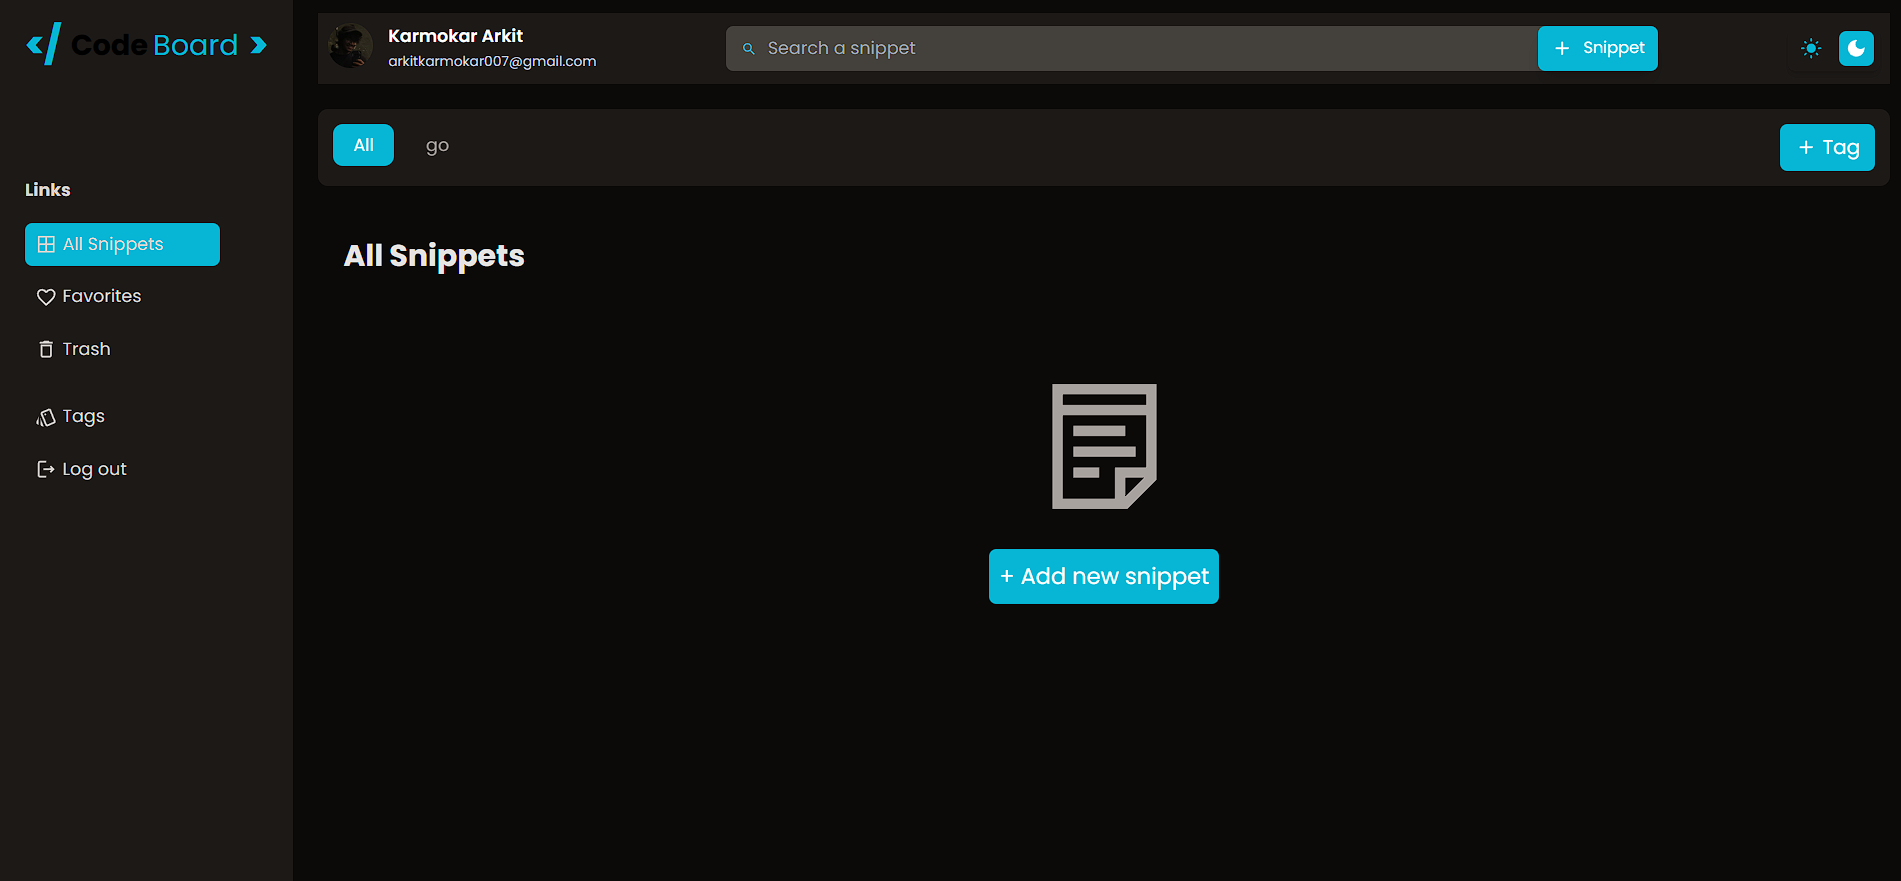
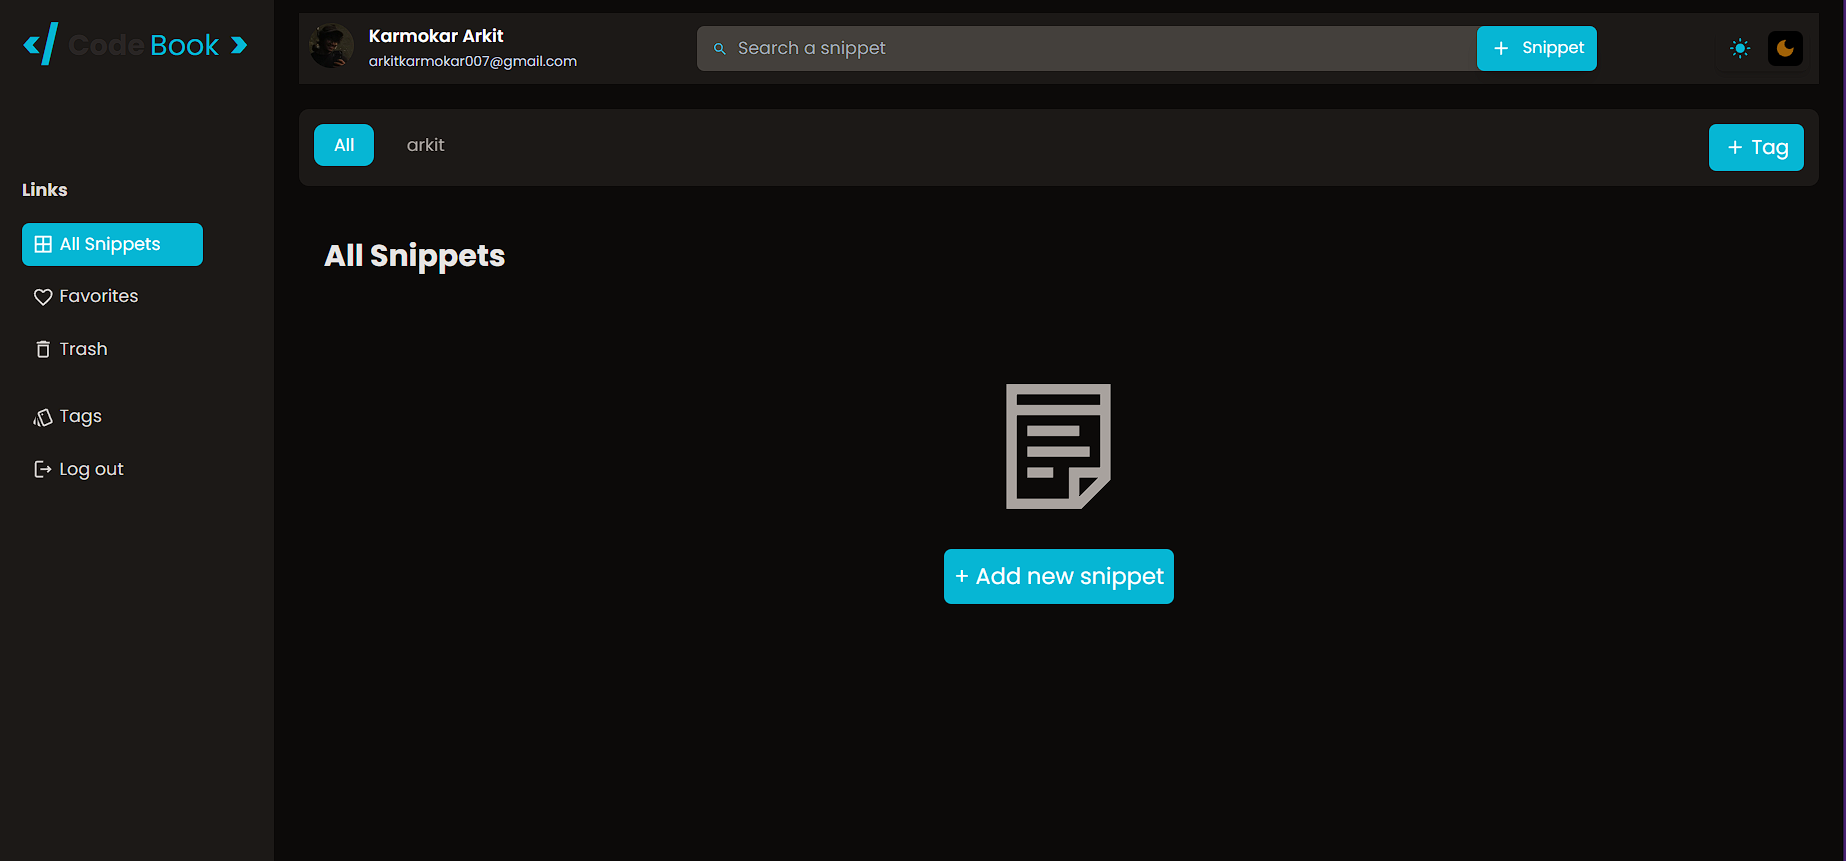
final commit

diff --git a/app/my-notes/Components/Sidebar/Sidebar.tsx b/app/my-notes/Components/Sidebar/Sidebar.tsx
@@ -54,7 +54,7 @@ function Logo() {
       <span className="font-extrabold text-3xl text-cyan-500">{"</"}</span>
       <div className="flex gap-1 text-[23px]">
         <span className={`font-bold text-stone-800`}>Code</span>
-        <span className="text-cyan-500">Board</span>
+        <span className="text-cyan-500">Book</span>
       </div>
       <span className="font-extrabold text-cyan-500 text-3xl">{">"}</span>
     </div>

diff --git a/app/layout.tsx b/app/layout.tsx
@@ -15,7 +15,7 @@ const poppins = Poppins({
 });
 
 export const metadata: Metadata = {
-  title: "Code Board",
+  title: "Code Book",
   description: "Code snippet saver",
 };
 
